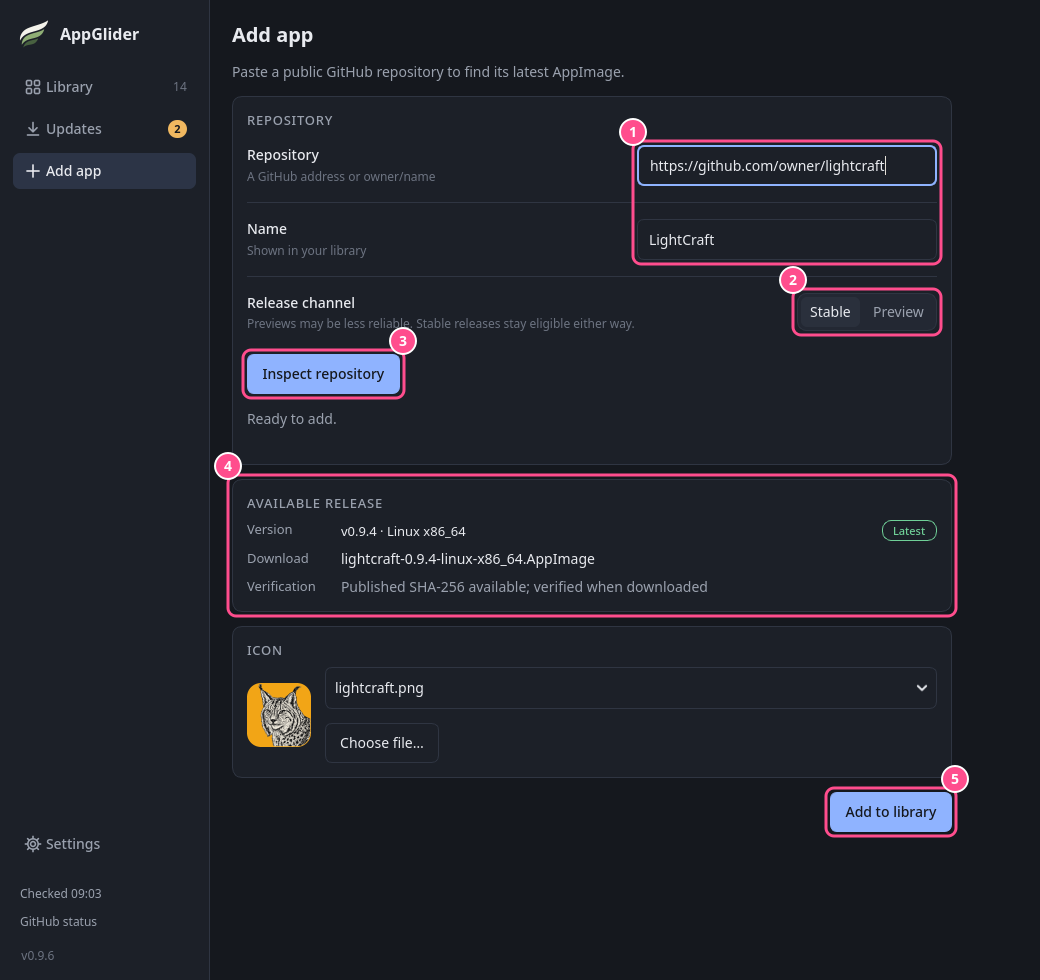
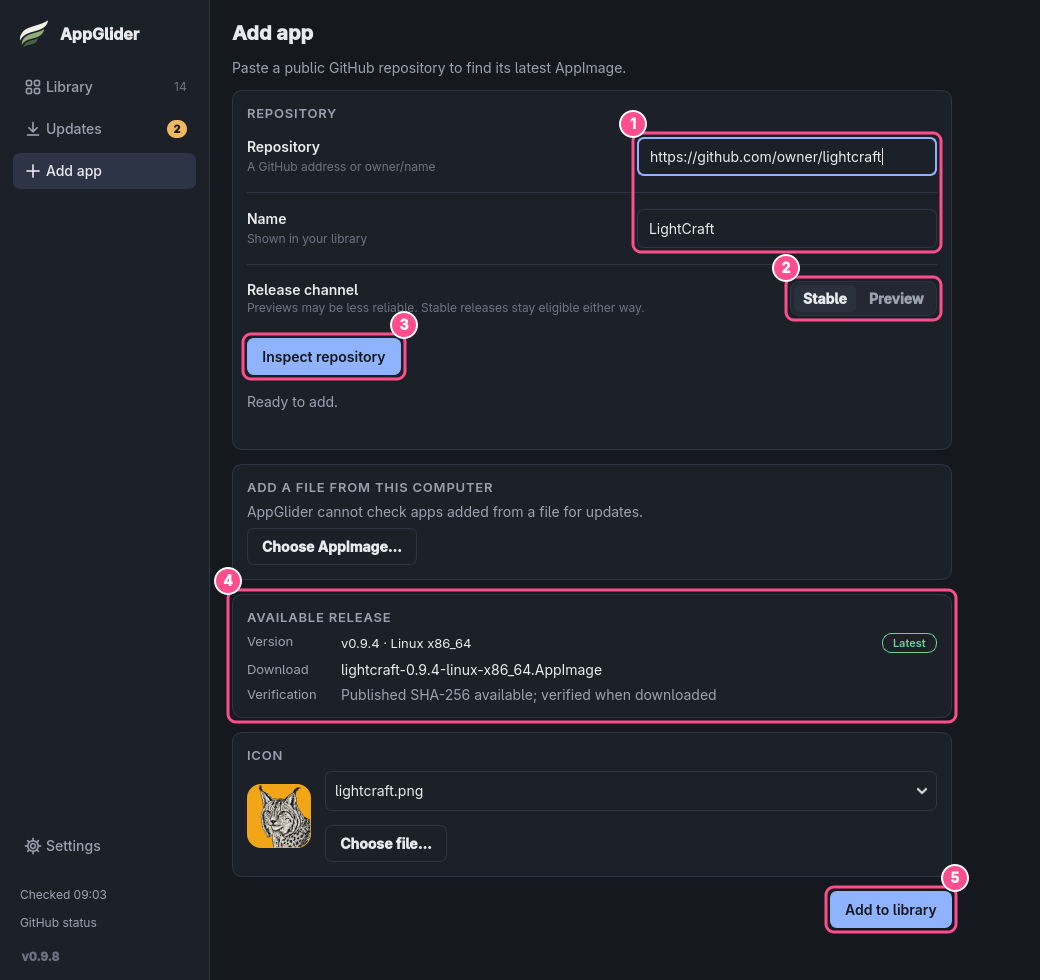
chore: release 0.9.8

diff --git a/site/index.html b/site/index.html
@@ -47,7 +47,7 @@
 <link rel="stylesheet" href="/styles.css">
 <script src="/site.js" defer></script>
 </head>
-<body data-version="0.9.7">
+<body data-version="0.9.8">
 <a class="skip" href="#main">Skip to content</a>
 
 <header class="nav">

diff --git a/docs/builds.md b/docs/builds.md
@@ -39,12 +39,12 @@ before GitHub can execute it.
 | --- | --- |
 | Pull request or ordinary push | Checks and tests |
 | Manual dispatch | Checks, tests and a test-build artifact |
-| Version tag such as `v0.9.7` | Checks, tests, build and a draft GitHub Release |
+| Version tag such as `v0.9.8` | Checks, tests, build and a draft GitHub Release |
 | Maintainer publishes the draft | AppImage and checksum become release downloads |
 
 To prepare a release:
 
-1. Set the version in `pyproject.toml`, for example `0.9.7`, add it to the `<releases>` list
+1. Set the version in `pyproject.toml`, for example `0.9.8`, add it to the `<releases>` list
    in `packaging/io.github.vyrnexis.AppGlider.appdata.xml`, and update any version numbers
    written in the docs. The interface and HTTP User-Agent read the installed package version.
    Reinstall an editable development checkout after a version change. Commit the changes.
@@ -52,8 +52,8 @@ To prepare a release:
 3. Create and push the matching tag:
 
    ```sh
-   git tag v0.9.7
-   git push origin v0.9.7
+   git tag v0.9.8
+   git push origin v0.9.8
    ```
 
 The tag must exactly match `v` plus the project version; a mismatch stops the build.

diff --git a/docs/roadmap.md b/docs/roadmap.md
@@ -42,10 +42,10 @@ None of these are approved or scheduled.
 
 Roughly newest first. Where shown, the version is the release that first included the work.
 
-- **AppImages from a file (next release):** **Add app → Choose AppImage…** adds a file that is
+- **AppImages from a file (0.9.8):** **Add app → Choose AppImage…** adds a file that is
   already on the computer, reading its name, version and icon from inside it. These apps are
   never checked for updates; **Replace with a newer file…** keeps the old one for Roll back.
-- **Move AppGlider here (next release):** **Settings → Storage** can copy AppGlider into the
+- **Move AppGlider here (0.9.8):** **Settings → Storage** can copy AppGlider into the
   install folder, restart from the copy and remove the old file. When an app quits with an
   error right after starting, the message shows the end of its log and explains a missing FUSE.
 - **Update all, one app at a time on screen (0.9.7):** each app's row changes as soon as it is

diff --git a/docs/development.md b/docs/development.md
@@ -106,7 +106,7 @@ The version comes from `pyproject.toml`.
 Test the package without FUSE, using a disposable first-run home:
 
 ```sh
-python3 packaging/smoke_test.py dist/AppGlider-0.9.7-x86_64.AppImage
+python3 packaging/smoke_test.py dist/AppGlider-0.9.8-x86_64.AppImage
 ```
 
 The smoke test runs twice: once as an empty first run, and once with two sample repositories

diff --git a/THIRD_PARTY_NOTICES.md b/THIRD_PARTY_NOTICES.md
@@ -26,7 +26,7 @@ including reverse engineering to debug those modifications, under the applicable
 To use replacement libraries, extract the AppImage into a writable directory:
 
 ```sh
-./AppGlider-0.9.7-x86_64.AppImage --appimage-extract
+./AppGlider-0.9.8-x86_64.AppImage --appimage-extract
 ./squashfs-root/AppRun
 ```
 
